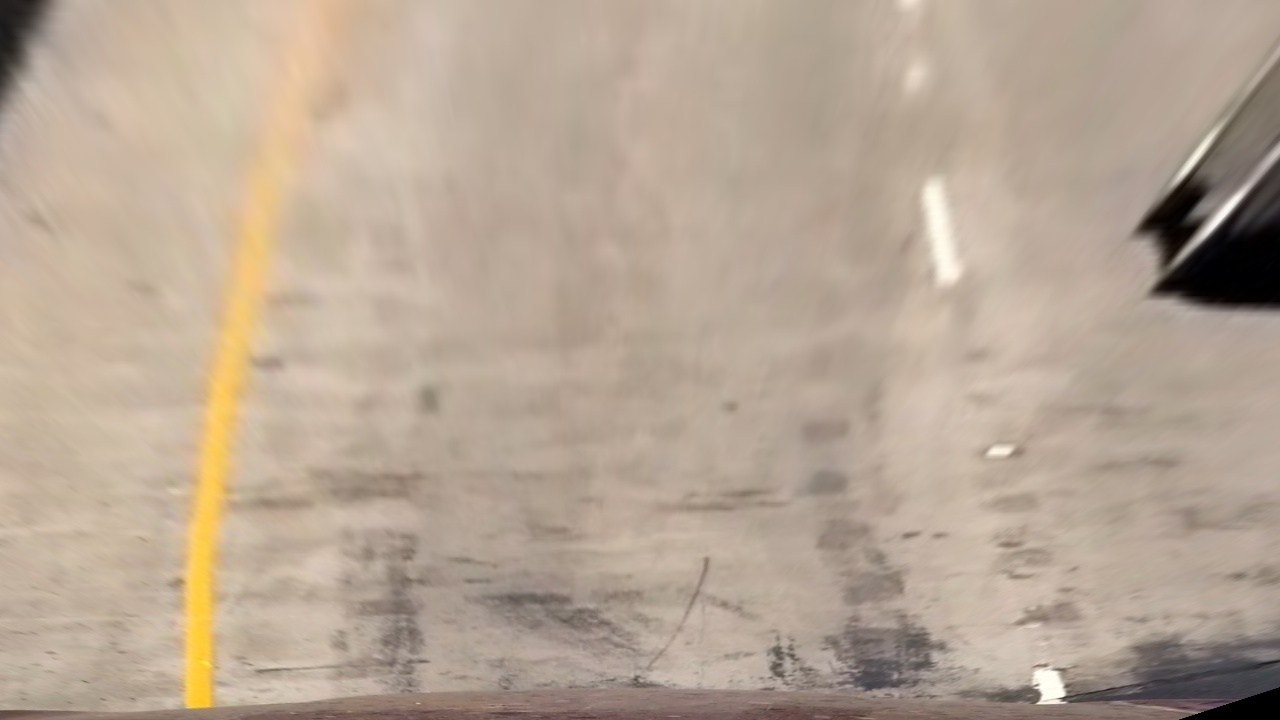
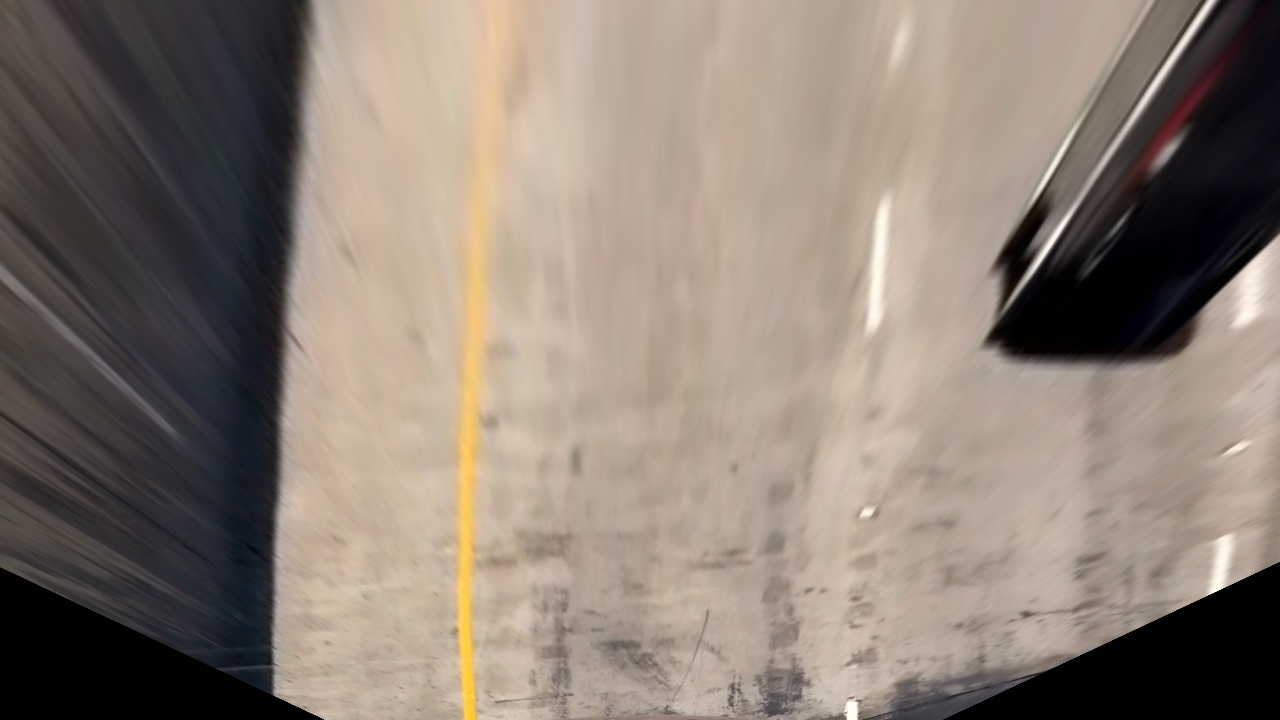
run module test for utils

diff --git a/AdvLaneline_utils.py b/AdvLaneline_utils.py
@@ -7,8 +7,10 @@
 import os
 import cv2
 import glob
+import sys
 import numpy as np
 import matplotlib.pyplot as plt
+from PIL import Image as PILImage
 
 # @function name:           Camera_Calibration
 # @function description:    Do camera calibration with object points and image points
@@ -71,32 +73,31 @@ def Camera_Calibration(camera_cal_folder, output_folder, debugflag = False):
 # @function description:    Do image undistortion, combine the test image with undistorqued image, then save to outputfolder
 # @param:                   mtx, dist, imagepath, imagename, output_folder
 # @ret:                     undistorted_img, newmtx
-def Image_Undistortion(mtx, dist, imagepath, imagename, output_folder, index, imgcombine = True): 
+def Image_Undistortion(mtx, dist, img, output_folder, index, imgcombine = True): 
     # get cwd
-    currentfolderpath = os.path.abspath(os.getcwd())
-    imgfullpath = os.path.join(currentfolderpath, imagepath, imagename)
-    outputsavefolder = os.path.join(currentfolderpath,output_folder)
-    img = cv2.imread(imgfullpath)
+    # currentfolderpath = os.path.abspath(os.getcwd())
+    # imgfullpath = os.path.join(currentfolderpath, imagepath, imagename)
+    # outputsavefolder = os.path.join(currentfolderpath,output_folder)
+    # img = cv2.imread(imgfullpath)
     newmtx = mtx
     undistorted_img = cv2.undistort(img, mtx, dist, None, newmtx)
     if imgcombine == True:
         combineimg = cv2.hconcat([img, undistorted_img])
     else: 
         combineimg = undistorted_img
-    cv2.imwrite(os.path.join(outputsavefolder, f'undistorted_image{index}.jpg'), combineimg)
+    cv2.imwrite(os.path.join(output_folder, f'undistorted_image{index}.jpg'), combineimg)
     return undistorted_img, newmtx
     
 # @function name:           PerspectiveTransform_unwarp
 # @function description:    Do perspective transform and unwarp the input image
 # @param:                   image, src, dst (define source and destination points for transform)
 # @ret:                     warped, M, M_inv
-def PerspectiveTransform_unwarp(image, src, dst):
-    h,w = image.shape[:2]
+def PerspectiveTransform_unwarp(iimg, src, dst, hw):
     # use cv2.getPerspectiveTransform() to get M, the transform matrix, and inv(M), the inverse
     M = cv2.getPerspectiveTransform(src, dst)
     M_inv = cv2.getPerspectiveTransform(dst, src)
     # use cv2.warpPerspective() to warp your image to a top-down view
-    warped = cv2.warpPerspective(image, M, (w,h), flags=cv2.INTER_LINEAR)
+    warped = cv2.warpPerspective(iimg, M, (hw[1],hw[0]), flags=cv2.INTER_LINEAR)
     return warped, M, M_inv
 
 # @function name:           abs_sobel_thresh
@@ -194,9 +195,9 @@ def lab_bthresh(img, thresh=(190,255)):
     # Return a binary image of threshold result
     return binary_output    
 
-# @function name:           sliding_window_polyfit
+# @function name:           advlaneline_sliding_window_polyfit
 # @function description:    Define method to fit polynomial to binary image with lines extracted, using sliding window
-def sliding_window_polyfit(img):
+def advlaneline_sliding_window_polyfit(img):
     # Take a histogram of the bottom half of the image
     histogram = np.sum(img[img.shape[0]//2:,:], axis=0)
     # Find the peak of the left and right halves of the histogram
@@ -211,7 +212,7 @@ def sliding_window_polyfit(img):
     #print('base pts:', leftx_base, rightx_base)
 
     # Choose the number of sliding windows
-    nwindows = 10
+    nwindows = 15
     # Set height of windows
     window_height = np.int(img.shape[0]/nwindows)
     # Identify the x and y positions of all nonzero pixels in the image
@@ -274,10 +275,10 @@ def sliding_window_polyfit(img):
     
     return left_fit, right_fit, left_lane_inds, right_lane_inds, visualization_data    
 
-# @function name:           sliding_window_polyfit
+# @function name:           advlaneline_polyfit_using_prev_fit
 # @function description:    Define method to fit polynomial to binary image based upon a previous fit (chronologically speaking);
 #                           this assumes that the fit will not change significantly from one video frame to the next
-def polyfit_using_prev_fit(binary_warped, left_fit_prev, right_fit_prev):
+def advlaneline_polyfit_using_prev_fit(binary_warped, left_fit_prev, right_fit_prev):
     nonzero = binary_warped.nonzero()
     nonzeroy = np.array(nonzero[0])
     nonzerox = np.array(nonzero[1])
@@ -394,34 +395,63 @@ def draw_data(original_img, curv_rad, center_dist):
     cv2.putText(new_img, text, (40,120), font, 1.5, (200,255,155), 2, cv2.LINE_AA)
     return new_img
 
-# @function name:           pipeline
-# @function description:    Define the complete image processing pipeline, reads raw image and returns binary image with lane lines identified
-def pipeline(img):
+# @function name:           image_pipeline
+# @function description:    Define the complete image processing pipeline, read raw image and return binary image with lane lines identified
+def image_pipeline(method, mtx, dist, index, dump_image_folderpath, img, debug_folder, debug_flag = False): 
     # Undistort
-    img_undistort = undistort(img)
-    
+    img_undistort,__ = Image_Undistortion(mtx, dist, img, dump_image_folderpath, index, False)  
+
+    srcpts = np.float32([(575,464),
+                  (707,464), 
+                  (258,682), 
+                  (1049,682)])
+    dstpts = np.float32([(450,0),
+                  (830,0),
+                  (450,720),
+                  (830,720)])
     # Perspective Transform
-    img_unwarp, M, Minv = unwarp(img_undistort, src, dst)
+    img_unwarp, M, Minv = PerspectiveTransform_unwarp(img_undistort, srcpts, dstpts, img_undistort.shape)
+    cv2.imwrite(os.path.join(debug_folder,f'unwarped_pipeline{index}.jpg'), img_unwarp)
 
-    # Sobel Absolute (using default parameters)
-    #img_sobelAbs = abs_sobel_thresh(img_unwarp)
-
-    # Sobel Magnitude (using default parameters)
-    #img_sobelMag = mag_thresh(img_unwarp)
-    
-    # Sobel Direction (using default parameters)
-    #img_sobelDir = dir_thresh(img_unwarp)
-    
-    # HLS S-channel Threshold (using default parameters)
-    #img_SThresh = hls_sthresh(img_unwarp)
-
-    # HLS L-channel Threshold (using default parameters)
-    img_LThresh = hls_lthresh(img_unwarp)
-
-    # Lab B-channel Threshold (using default parameters)
-    img_BThresh = lab_bthresh(img_unwarp)
-    
-    # Combine HLS and Lab B channel thresholds
-    combined = np.zeros_like(img_BThresh)
-    combined[(img_LThresh == 1) | (img_BThresh == 1)] = 1
+    if method == ("Sobel_Absolute"): 
+        # Sobel Absolute (using default parameters)
+        # print("Sobel_Absolute")
+        img_sobelAbs = abs_sobel_thresh(img_unwarp)
+        combined = img_sobelAbs
+    elif method == ("Sobel_Magnitude"): 
+        # Sobel Magnitude (using default parameters)
+        img_sobelMag = mag_thresh(img_unwarp)
+        combined = img_sobelMag
+    elif method == ("Sobel_Direction"):         
+        # Sobel Direction (using default parameters)
+        img_sobelDir = dir_thresh(img_unwarp)
+        combined = img_sobelDir
+    elif method == ("Sobel_MagDir"): 
+        img_sobelMag = mag_thresh(img_unwarp)
+        img_sobelDir = dir_thresh(img_unwarp)
+        combined = np.zeros_like(img_sobelMag)
+        combined[(img_sobelMag == 1) | (img_sobelDir == 1)] = 1
+    elif method == ("HLS_S_channel"):         
+        # HLS S-channel Threshold (using default parameters)
+        img_SThresh = hls_sthresh(img_unwarp)
+        combined = img_SThresh
+    elif method == ("HLS_L_channel"):
+        # HLS L-channel Threshold (using default parameters)
+        img_LThresh = hls_lthresh(img_unwarp)
+        combined = img_LThresh
+        # cv2.imwrite(os.path.join(debug_folder,f'img_LThresh{index}.jpg'), np.multiply(img_LThresh,255))
+    elif method == ("LAB_B_channel"):
+        # Lab B-channel Threshold (using default parameters)
+        img_BThresh = lab_bthresh(img_unwarp)
+        combined = img_BThresh
+    elif method == ("HLSCombine"):    
+        # Combine HLS and Lab B channel thresholds
+        # print("HLSCombine")
+        img_LThresh = hls_lthresh(img_unwarp)
+        img_BThresh = lab_bthresh(img_unwarp)
+        combined = np.zeros_like(img_BThresh)
+        combined[(img_LThresh == 1) | (img_BThresh == 1)] = 1
+    # Debug: write grayscale images into jpg files
+    grayscale_img = np.multiply(combined, 255)
+    cv2.imwrite(os.path.join(debug_folder,f'grayscale_img{index}.jpg'), grayscale_img)
     return combined, Minv

diff --git a/AdvLaneline_moduletest.py b/AdvLaneline_moduletest.py
@@ -7,22 +7,27 @@
 import os
 import cv2
 import json
+import glob
 import numpy as np
 import matplotlib.pyplot as plt
-from AdvLaneline_utils import Camera_Calibration, Image_Undistortion, PerspectiveTransform_unwarp
+from AdvLaneline_utils import Camera_Calibration, Image_Undistortion, PerspectiveTransform_unwarp, image_pipeline, advlaneline_sliding_window_polyfit, advlaneline_polyfit_using_prev_fit
 
 
 #camera cal folder is at same level with test_CameraCalibration.py, utils.py
 camera_cal_folderpath = "camera_cal"
 dump_image_folderpath = "output_images"
-test_image = "calibration1.jpg"
+undistorted_input_image_name = "calibration1.jpg"
+debug_flag = True
 if __name__ == '__main__':
     print(" Test Camera Calibration")
-
-    #run Camera_Calibration with no debug info
+    currentfolderpath = os.path.abspath(os.getcwd())
+    # [1]: run Camera_Calibration with no debug info
     ret, mtx, dist, rvecs, tvecs = Camera_Calibration(camera_cal_folderpath, dump_image_folderpath, False)
 
-    undist_img, newmtx = Image_Undistortion(mtx, dist, camera_cal_folderpath, test_image, dump_image_folderpath, 0, True)
+    # [2]: run Camera undistortion 
+    undistorted_input_image = cv2.imread(os.path.join(currentfolderpath, camera_cal_folderpath, undistorted_input_image_name))
+    output_image_folder = os.path.join(currentfolderpath, dump_image_folderpath)
+    undist_img, newmtx = Image_Undistortion(mtx, dist, undistorted_input_image, output_image_folder, 'x0', True)
 
     calib_data = {}
     # calib_data["Rot"] = rvecs
@@ -36,36 +41,78 @@ if __name__ == '__main__':
         for key, value in calib_data.items(): 
             file.write('%s = %s\n' % (key, value))
 
-    #test image with perspective transform and unwarp
+    # [3]: test image with perspective transform and unwarp
     test_image_folderpath = "test_images"
-    test_image_name = "test1.jpg"
-    undist_img,__ = Image_Undistortion(mtx, dist, test_image_folderpath, test_image_name, dump_image_folderpath, 1, False)
+    undistorted_input_image = cv2.imread(os.path.join(currentfolderpath, test_image_folderpath, "test1.jpg"))
+    undist_img,__ = Image_Undistortion(mtx, dist, undistorted_input_image, dump_image_folderpath, 1, False)
 
-    h,w = undist_img.shape[:2]
-    # print(h)
-    # print(w)
-    # define source and destination points for transform
-    # srcpts = np.float32([(575,464), 
-    #                 (727,464),
-    #                 (258,682), 
-    #                 (1089,682)])
-    # dstpts = np.float32([(450,0),
-    #                 (w-450,0),
-    #                 (450,h),
-    #                 (w-450,h)])
-    srcpts = np.float32([(550, 460),    # top-left
-                    (150, 720),         # bottom-left
-                    (1200, 720),        # bottom-right
-                    (770, 460)])        # top-right
-    dstpts = np.float32([(100, 0),
-                    (100, 720),
-                    (1100, 720),
-                    (1100, 0)])         
-    # print(srcpts)
-    # print(pts)
-    exampleImg_unwarp, M, Minv = PerspectiveTransform_unwarp(undist_img, srcpts, dstpts)
+    # srcpts = np.float32([(550, 460),    # top-left
+    #                 (150, 720),         # bottom-left
+    #                 (1200, 720),        # bottom-right
+    #                 (770, 460)])        # top-right
+    # dstpts = np.float32([(100, 0),
+    #                 (100, 720),
+    #                 (1100, 720),
+    #                 (1100, 0)])   
+    
+    srcpts = np.float32([(575,464),
+                  (707,464), 
+                  (258,682), 
+                  (1049,682)])
+    dstpts = np.float32([(450,0),
+                  (830,0),
+                  (450,720),
+                  (830,720)])       
+    hw = undist_img.shape
+    # print(hw)
+    exampleImg_unwarp, M, Minv = PerspectiveTransform_unwarp(undist_img, srcpts, dstpts, hw)
     cv2.imwrite(os.path.join(currentfolderpath, dump_image_folderpath, "unwarped_image.jpg"), exampleImg_unwarp)
     pts = np.array([[258,682],[575,464],[727,464],[1089,682]], np.int32)
     pts = pts.reshape((-1, 1, 2))  
     undist_img_polylines = cv2.polylines(undist_img, [pts], True, (0,0,255), 3)
     cv2.imwrite(os.path.join(currentfolderpath, dump_image_folderpath, "polylines_image.jpg"), undist_img_polylines)
+
+    # [4]: run image pipeline process for all test images
+    lst_test_images = glob.glob(os.path.join(currentfolderpath, test_image_folderpath, '*.jpg'))
+    debug_folder = os.path.join(currentfolderpath,"debug")
+    for idx, image in enumerate(lst_test_images): 
+        iimg0 = cv2.imread(image)
+        iimg1 = cv2.cvtColor(iimg0, cv2.COLOR_BGR2RGB)
+        if debug_flag == True:
+            iimg2 = cv2.hconcat([iimg0, iimg1])
+            cv2.imwrite(os.path.join(debug_folder,f'debug{idx}.jpg'), iimg2)
+        oimg, Minv = image_pipeline("HLSCombine", mtx, dist, idx, os.path.join(currentfolderpath, dump_image_folderpath), iimg1, debug_folder)
+        cv2.imwrite(os.path.join(output_image_folder, f'pipeline_img{idx}.jpg'), np.multiply(oimg,255))
+    
+
+    # [5]: run test for sliding window polyfit
+    img_test_file = os.path.join(currentfolderpath, dump_image_folderpath, 'pipeline_img6.jpg')
+    iimg0 = cv2.imread(img_test_file, cv2.IMREAD_GRAYSCALE)
+    # print(type(iimg0),iimg0)
+    lfit, rfit, llane_inds, rlane_inds, visualization_data = advlaneline_sliding_window_polyfit(iimg0)
+    # Create an output image to draw on and visualize the result
+    oimg1 = np.uint8(np.dstack((iimg0, iimg0, iimg0))*255)
+    for rect in visualization_data[0]:
+        cv2.rectangle(oimg1,(rect[2],rect[0]),(rect[3],rect[1]),(0,255,0), 2) 
+        cv2.rectangle(oimg1,(rect[4],rect[0]),(rect[5],rect[1]),(0,255,0), 2) 
+    # Identify the x and y positions of all nonzero pixels in the image
+    nonzero = iimg0.nonzero()
+    nonzeroy = np.array(nonzero[0])
+    nonzerox = np.array(nonzero[1])
+    oimg1[nonzeroy[llane_inds], nonzerox[llane_inds]] = [255, 0, 0]
+    oimg1[nonzeroy[rlane_inds], nonzerox[rlane_inds]] = [100, 200, 255]
+    # Update for lane lines
+    pixely = np.linspace(0, iimg0.shape[0]-1, iimg0.shape[0])
+    # print(iimg0.shape[0])
+    # print(pixely)
+    for y in pixely: 
+        lpixelx = np.int32(lfit[0]*y**2 + lfit[1]*y + lfit[2])
+        oimg1[np.int32(y), lpixelx] = [255, 255, 0]
+        rpixelx = np.int32(rfit[0]*y**2 + rfit[1]*y + rfit[2])
+        oimg1[np.int32(y), rpixelx] = [255, 255, 0]
+        # print(lpixelx, rpixelx, np.int32(y))
+    cv2.imwrite(os.path.join(currentfolderpath, dump_image_folderpath, 'test_advlaneline_sliding_window_polyfit.jpg'),oimg1)
+
+
+    # [6]: run test for sliding window polyfit based on previous fit
+    lfit_new, rfit_new, llane_inds, rlane_inds = advlaneline_polyfit_using_prev_fit(iimg0, lfit, rfit)

diff --git a/AdvLaneline_main.py b/AdvLaneline_main.py
@@ -1,0 +1,11 @@
+# -*- coding: utf-8 -*-
+# @Author:              QH Lam
+# @Date:                2021-02-27
+# @Module name:         utils.py
+# @Module description:  Advanced Lane lines main function
+
+import os
+import cv2
+import glob
+import numpy as np
+import matplotlib.pyplot as plt
